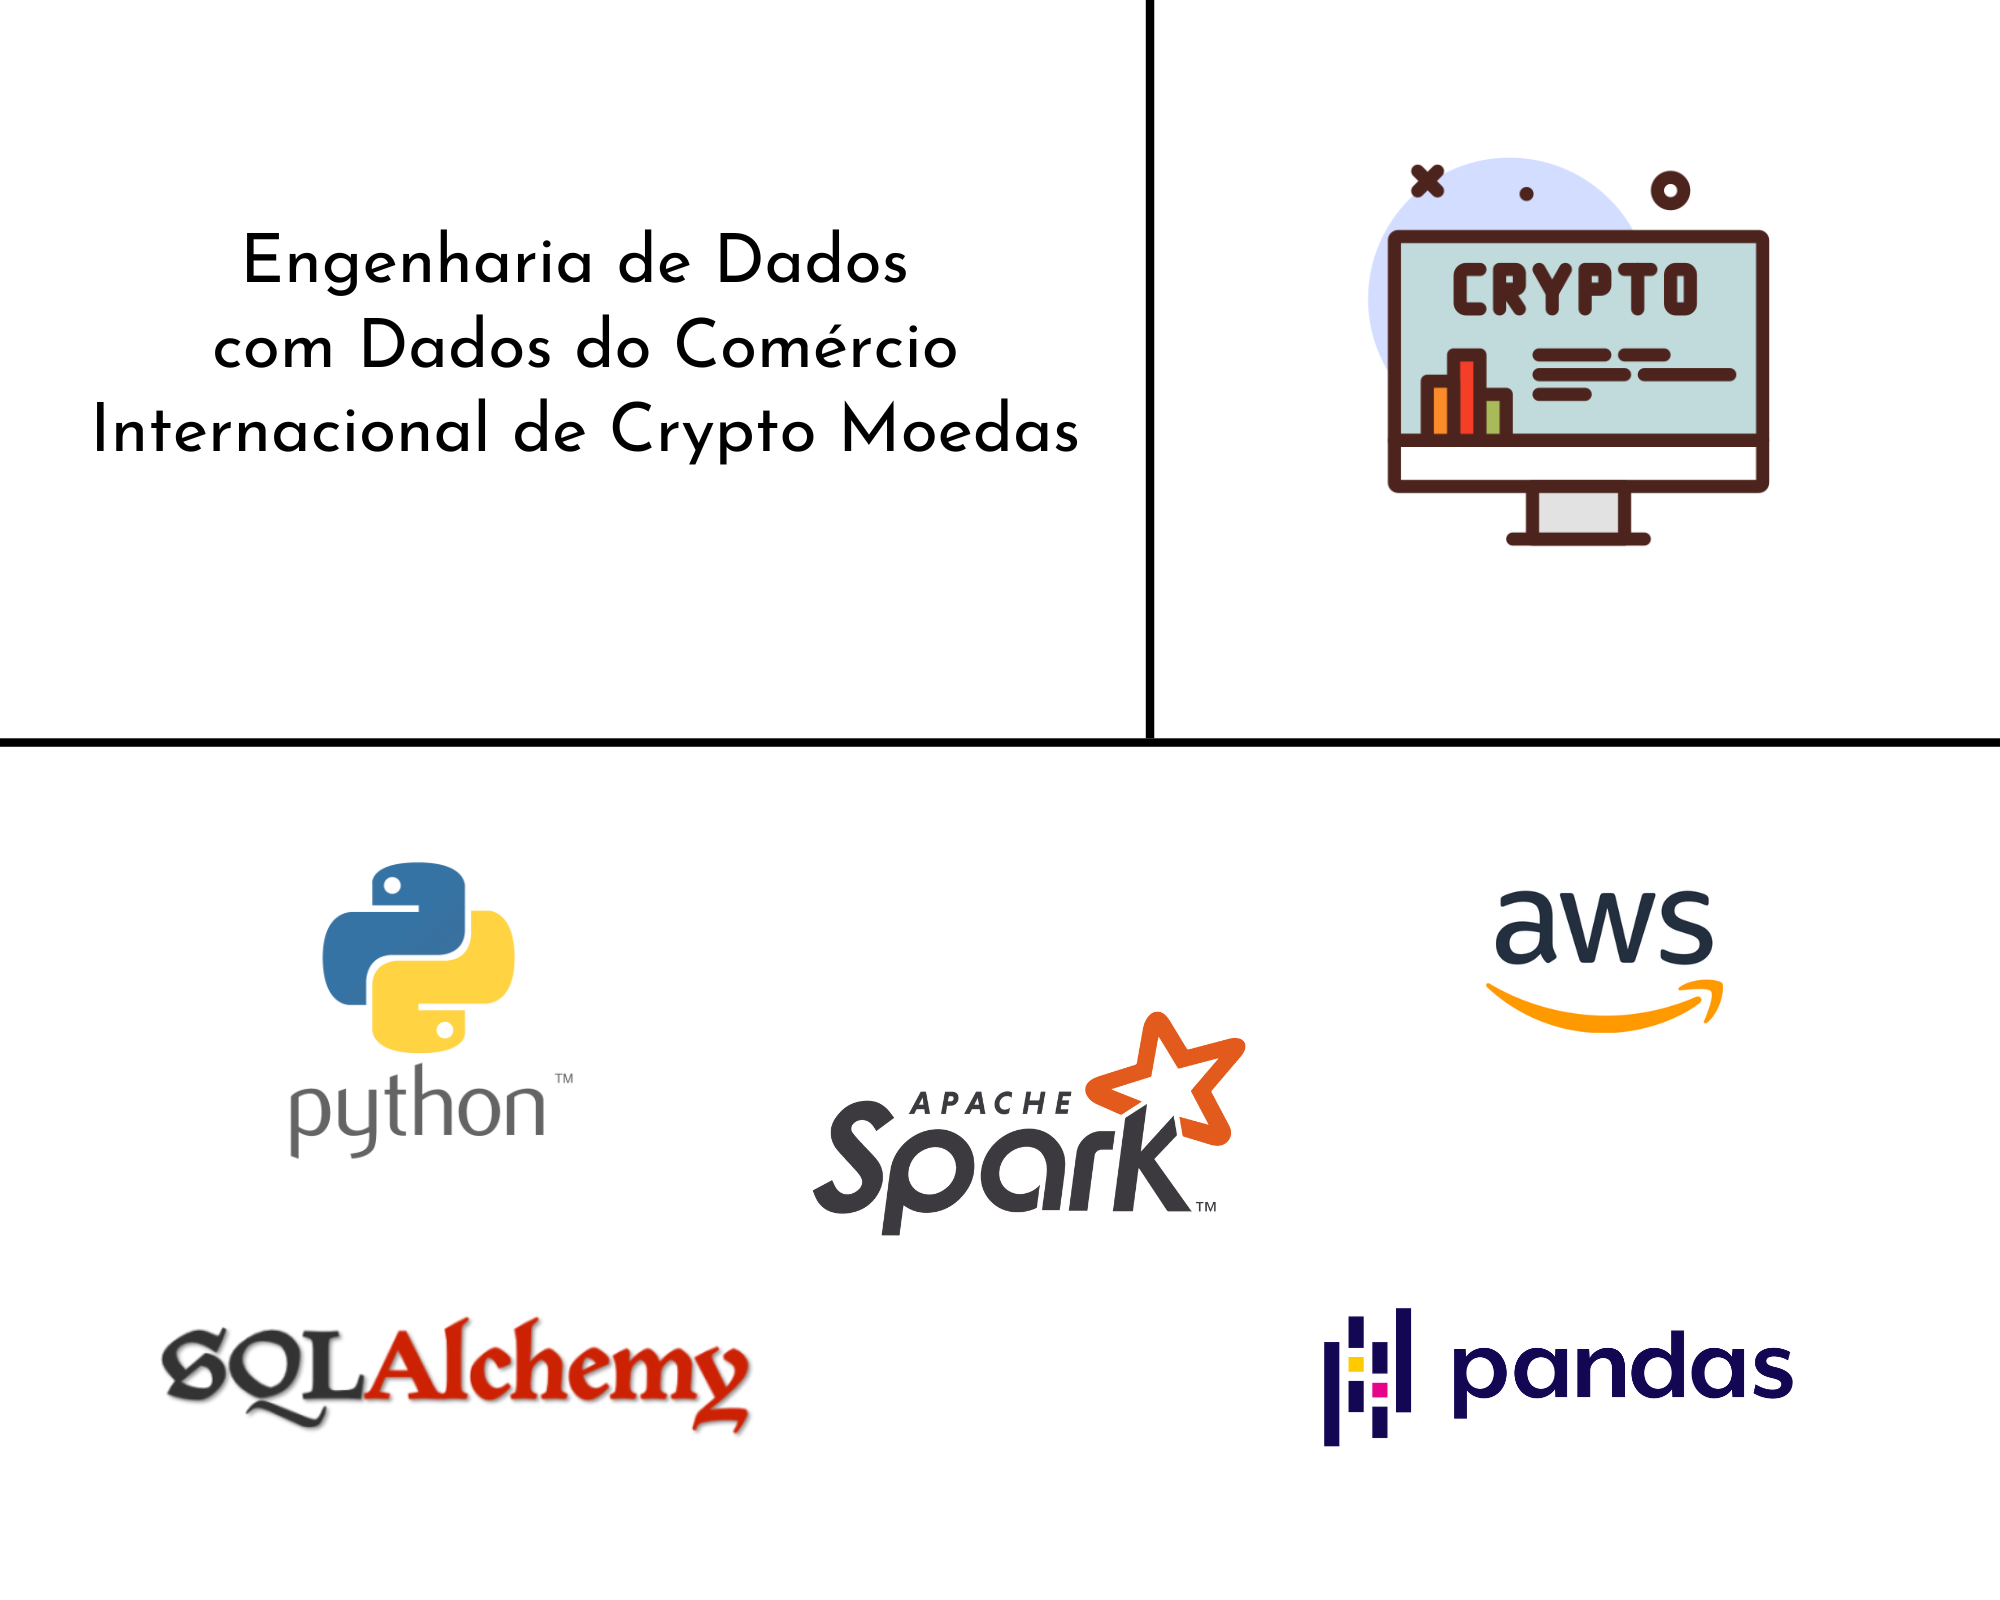
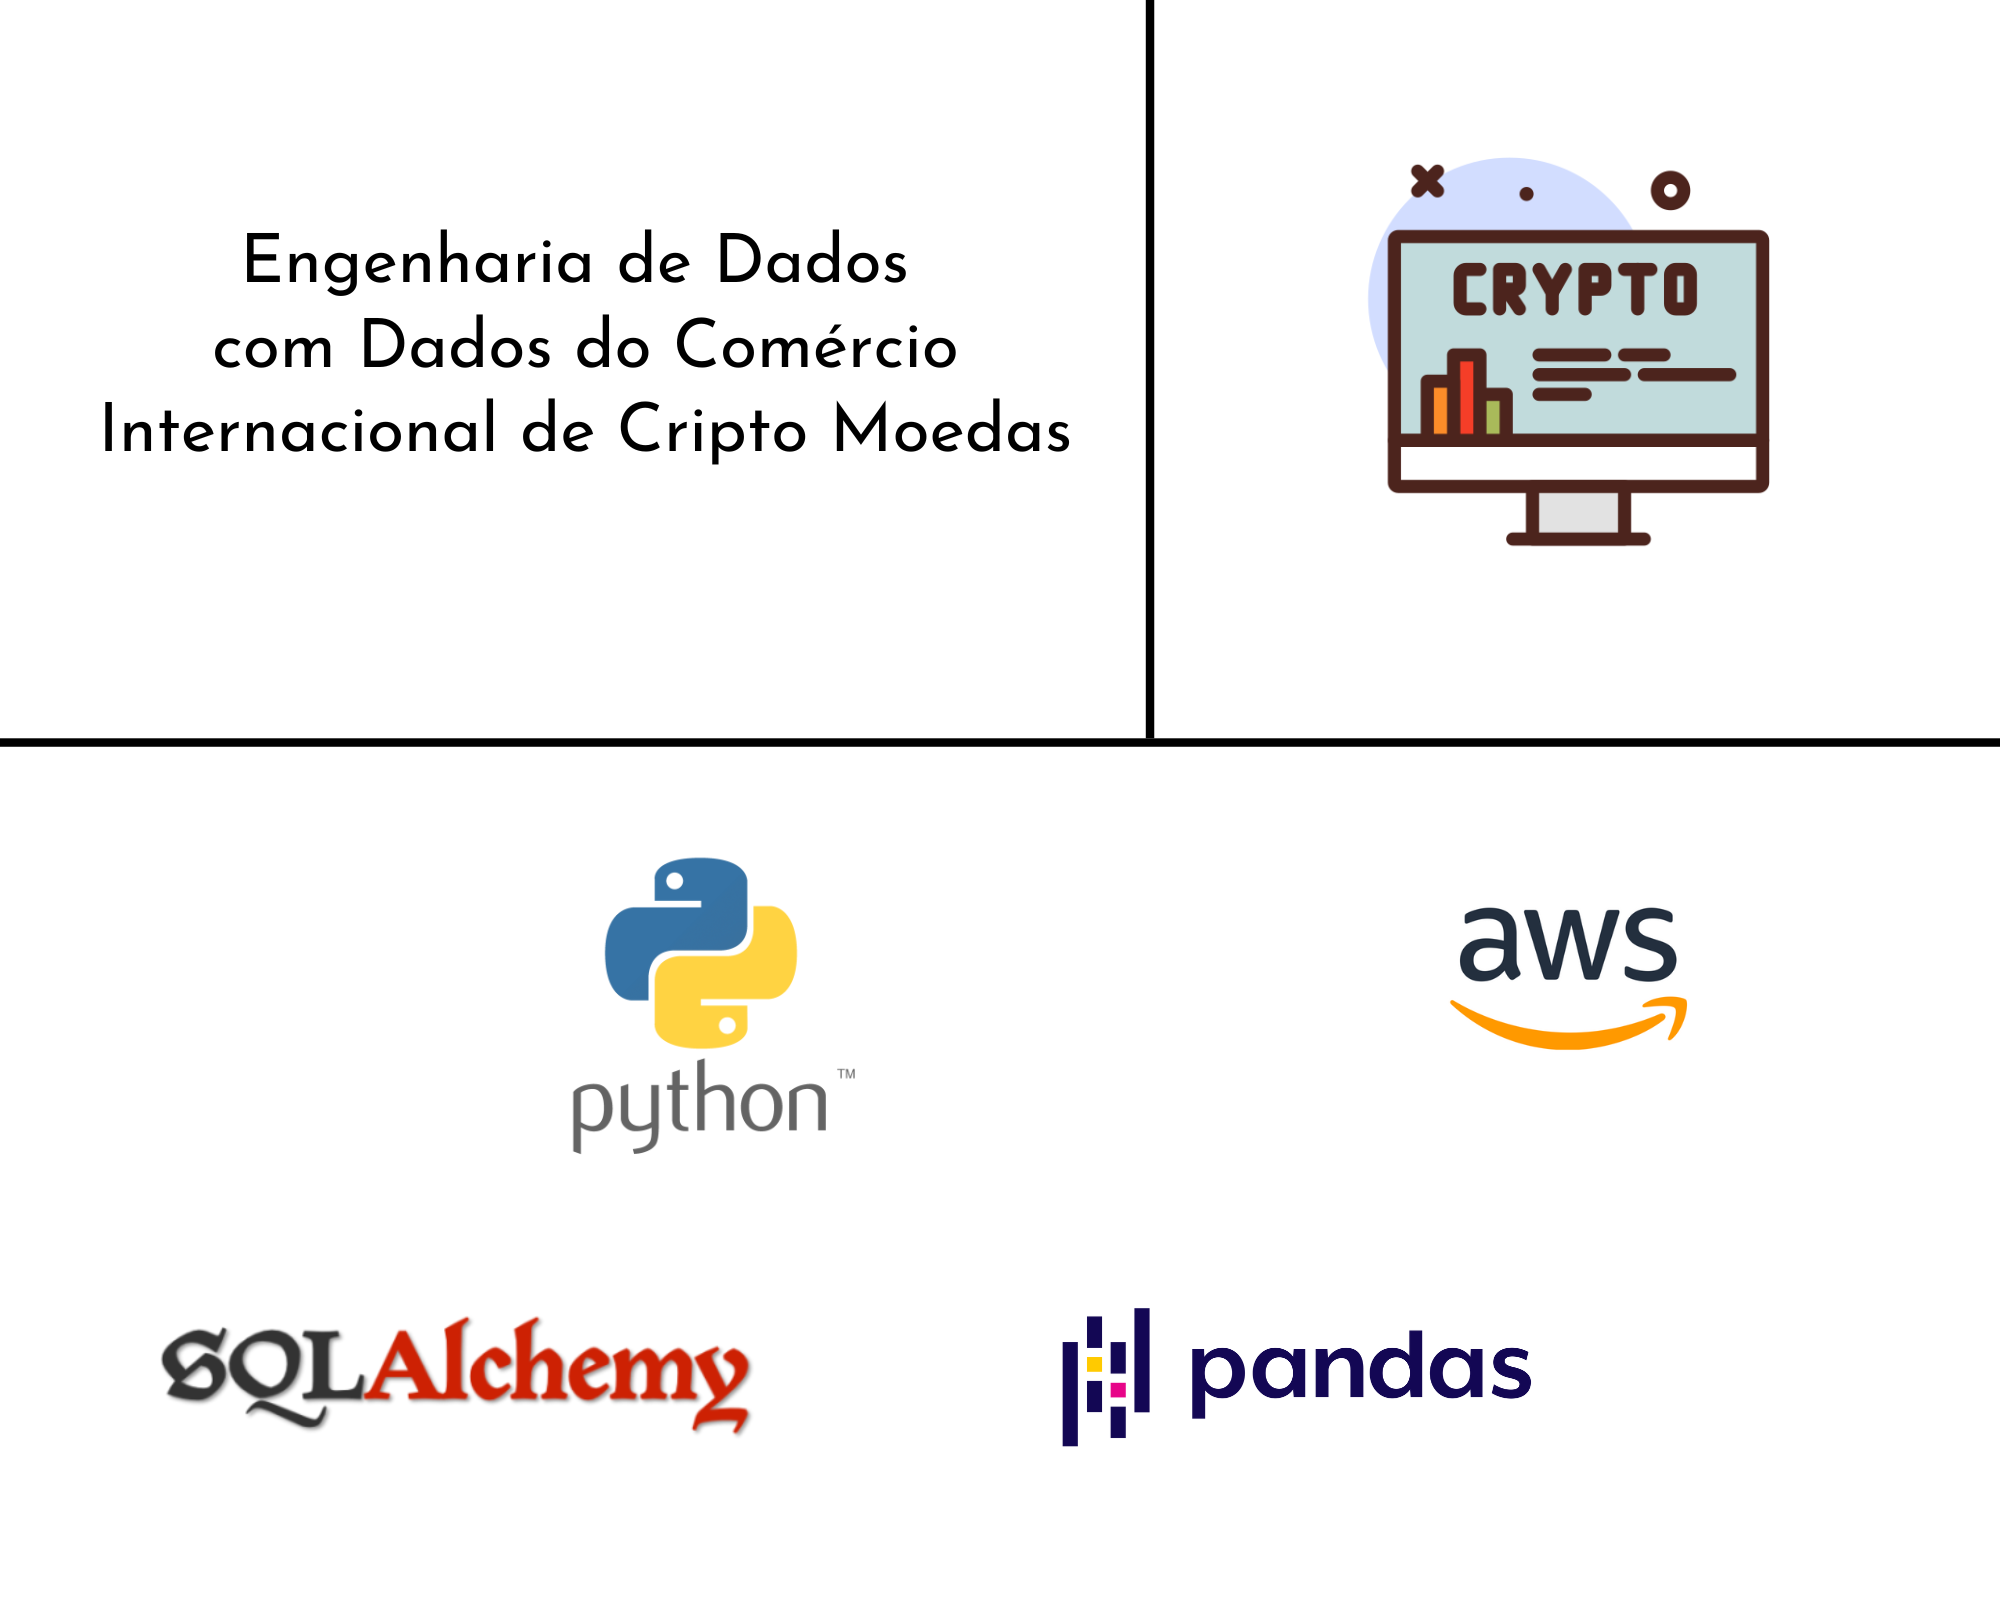
first commit

diff --git a/README.md b/README.md
@@ -1,8 +1,10 @@
-# Projeto de Engenharia de Dados com Python puro | Análise de Dados do Comércio internacional de Crypto Moedas
+# Projeto de Engenharia de Dados em Batch | Comércio internacional de Cripto Moedas
 
-> 
+>  Atividade Pythonica com objetivo simples de executar uma atividade em Batch.
+
 ## Intrudução
-
+  A fim de praticar os bons hábitos de programar com Python, entrego neste pequeno projeto, Dados prontos para o uso comum em atividades de Ciência ou Análise de Dados. Inicio as atividades coletando Dados não estruturados, em formato json, de uma API privada, encaminho os Dados para formatação, selecionando propriedades específicas, limpando irregularidades e liberando no formato parquet. Carregando todas as matérias primas no PostgreSql RDS, diponibilizo de forma imediata Dados via SQL. 
+  
 <img src="proj_cripto.png">
 
 ## Serviço em Nuvem 
@@ -13,9 +15,8 @@
 > <a href="https://pt.wikipedia.org/wiki/SQL">SQL</a>
 
 ## Bibliotecas e Frameworks
-> <a "https://spark.apache.org/">Spark</a>
-> <a "https://pandas.pydata.org/">Pandas</a>
-> <a "https://www.sqlalchemy.org/">SqlAlchemy</a>
+> <a href="https://pandas.pydata.org/">Pandas</a>
+> <a href="https://www.sqlalchemy.org/">SqlAlchemy</a>
 
 ## Conjunto de Dados Utilizado via API 
 Dados compartilhados por <a href="https://coinmarketcap.com/">CoinMarketcap.</a>
@@ -30,8 +31,4 @@ Dados compartilhados por <a href="https://coinmarketcap.com/">CoinMarketcap.</a>
 <img src="tables_post.png">
 
 Mais informações <a href="https://www.linkedin.com/in/mario-barcelos/">Mario Barcelos</a>
-# proj-eng-dados-cripto
-# proj-eng-dados-cripto
-# proj-eng-dados-cripto
-# proj-eng-dados-cripto
 # proj-eng-dados-cripto
